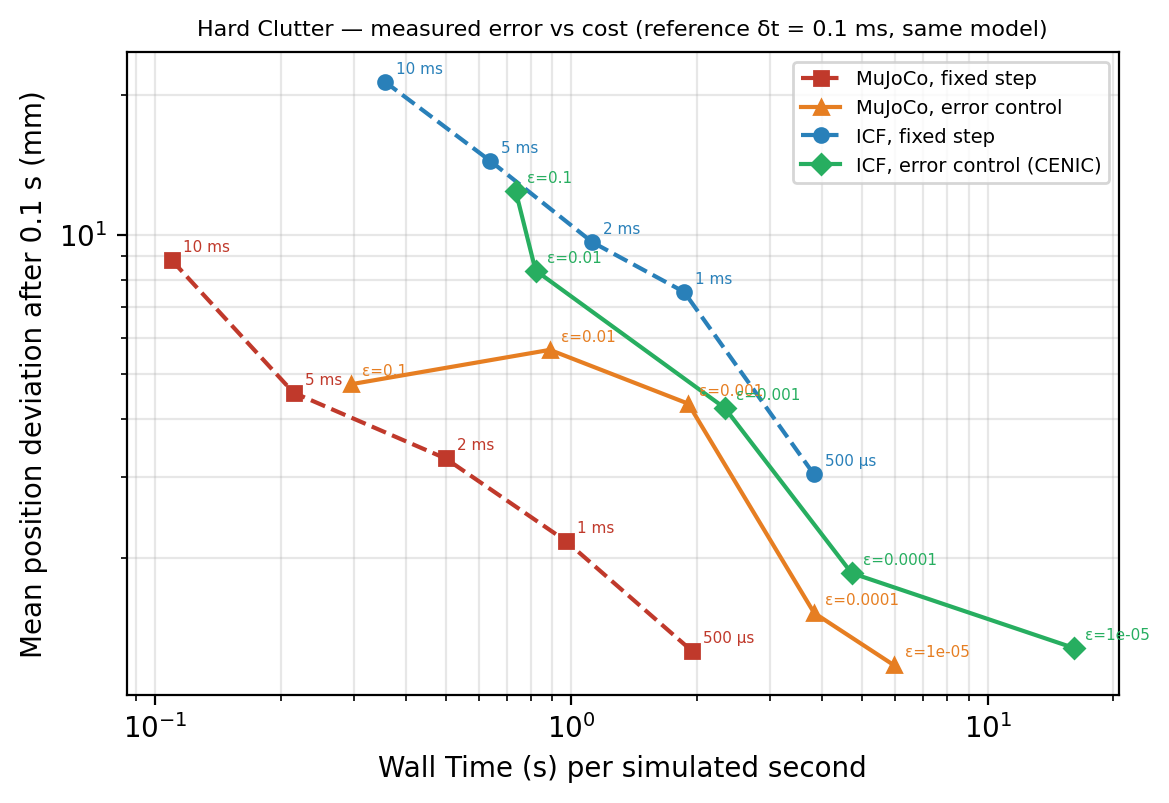
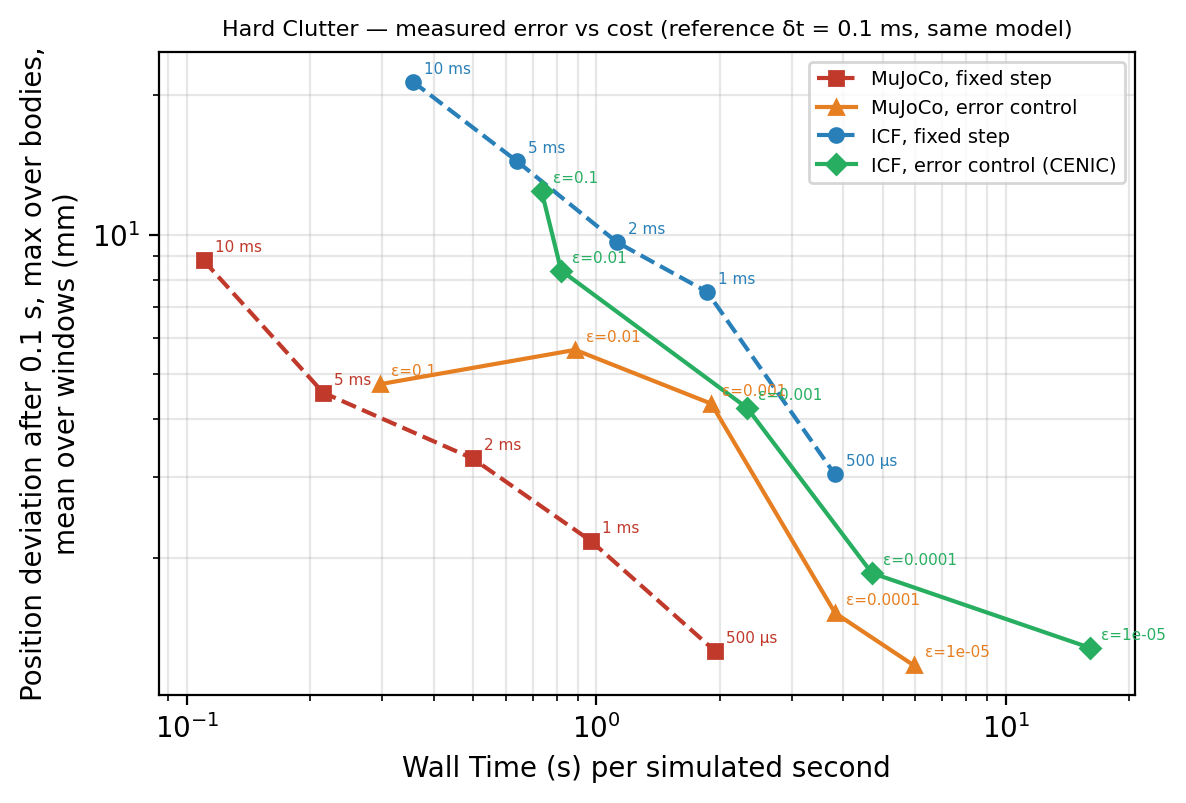
Consistency bench: state the norm (L-inf over bodies) and add a self-check
The deviation per window is the max over bodies, averaged over windows
-- the error controller's own norm -- and the figure, caption and prose
now say so. --self-check runs each backend at the reference step
restarted from the reference and requires it to reproduce it (<= 1 um),
the oracle for the restart wiring.

diff --git a/scripts/bench/part1_plots.py b/scripts/bench/part1_plots.py
@@ -723,9 +723,11 @@ def stiffness_sweep() -> None:
 
 
 def consistency() -> None:
-    """Measured error vs cost: mean deviation from a dt = 0.1 ms reference over
+    """Measured error vs cost: deviation from a dt = 0.1 ms reference after
     0.1 s windows restarted from the reference (Erez 2015's short-window
-    self-consistency), one panel per scene, every point labeled."""
+    self-consistency) -- max over bodies (the L-inf norm of the error
+    controller) averaged over windows -- one panel per scene, every point
+    labeled."""
     fig, axes = plt.subplots(
         1, len(SCENE_ORDER), figsize=(5.4 * len(SCENE_ORDER), 3.9), constrained_layout=True, squeeze=False
     )
@@ -754,7 +756,7 @@ def consistency() -> None:
         ax.set_xscale("log")
         ax.set_yscale("log")
         ax.set_xlabel("Wall Time (s) per simulated second")
-        ax.set_ylabel("Mean position deviation after 0.1 s (mm)")
+        ax.set_ylabel("Position deviation after 0.1 s, max over bodies,\nmean over windows (mm)")
         ax.set_title(f"{SCENE_TITLE[scene]} — measured error vs cost (reference δt = 0.1 ms, same model)", fontsize=8)
         ax.grid(True, which="both", alpha=0.3)
         ax.legend(fontsize=7)

diff --git a/scripts/bench/benchmarks/part1_consistency.py b/scripts/bench/benchmarks/part1_consistency.py
@@ -116,8 +116,17 @@ def main() -> int:
     p.add_argument("--n", type=int, default=8)
     p.add_argument("--out", type=str, default=None)
     p.add_argument("--single", nargs=3, metavar=("BACKEND", "KIND", "KNOB"), default=None)
+    p.add_argument("--self-check", action="store_true", help="oracle: a fixed run at the reference step restarted from the reference must reproduce it (deviation <= 1e-6 m)")
     args = p.parse_args()
     out = args.out or f"scripts/bench/results/part1_consistency_{args.scene}.csv"
+    if args.self_check:
+        ok = True
+        for backend in ("icf", "mujoco"):
+            r = _run(args.scene, backend, "fixed", REF_DT, args.n)
+            good = r["dev_max_m"] <= 1e-6 and r["pieces"] == N_PIECES
+            ok &= good
+            print(f"self-check {backend}: dev_max {r['dev_max_m']:.2e} m pieces {r['pieces']} -> {'PASS' if good else 'FAIL'}", flush=True)
+        return 0 if ok else 1
     if args.single is not None:
         backend, kind, knob = args.single
         print("ROW " + json.dumps(_run(args.scene, backend, kind, float(knob), args.n)), flush=True)

diff --git a/scripts/bench/results/PART1.md b/scripts/bench/results/PART1.md
@@ -240,10 +240,11 @@ does not recover the clamp.}
 
 \begin{figure*}[t]\centering
 \includegraphics[width=\textwidth]{figures/consistency.pdf}
-\caption{Measured error versus cost on the clutter scenes: mean position
-deviation from a $\delta t = 0.1$\,ms reference of the same model over
-0.1\,s windows restarted from the reference, against wall time per simulated
-second (8 scenes). Every point states its $\delta t$ or
+\caption{Measured error versus cost on the clutter scenes: position
+deviation from a $\delta t = 0.1$\,ms reference of the same model after
+0.1\,s windows restarted from the reference ($\ell_\infty$ over bodies,
+averaged over 20 windows), against wall time per simulated second (8
+scenes). Every point states its $\delta t$ or
 $\varepsilon_{acc}$.}
 \label{fig:consistency}
 \end{figure*}
@@ -402,9 +403,10 @@ per-world step controller injects none.
 
 ### Self-consistency (`figures/consistency.pdf`)
 
-Mean position deviation from a δt = 0.1 ms reference of the same model over
-0.1 s windows restarted from the reference (20 windows over the 2 s drop,
-8 scenes), against wall time per simulated second — the measured error, on
+Position deviation from a δt = 0.1 ms reference of the same model after
+0.1 s windows restarted from the reference — the ℓ∞ over bodies the error
+controller itself uses, averaged over 20 windows of the 2 s drop, 8 scenes
+— against wall time per simulated second — the measured error, on
 the same axes as the cost, with every point labeled. Each arm is compared
 with its own model's reference, so the figure ranks convergence and cost,
 not fidelity to the physical model (that is `figures/stiffness_sweep.pdf`
